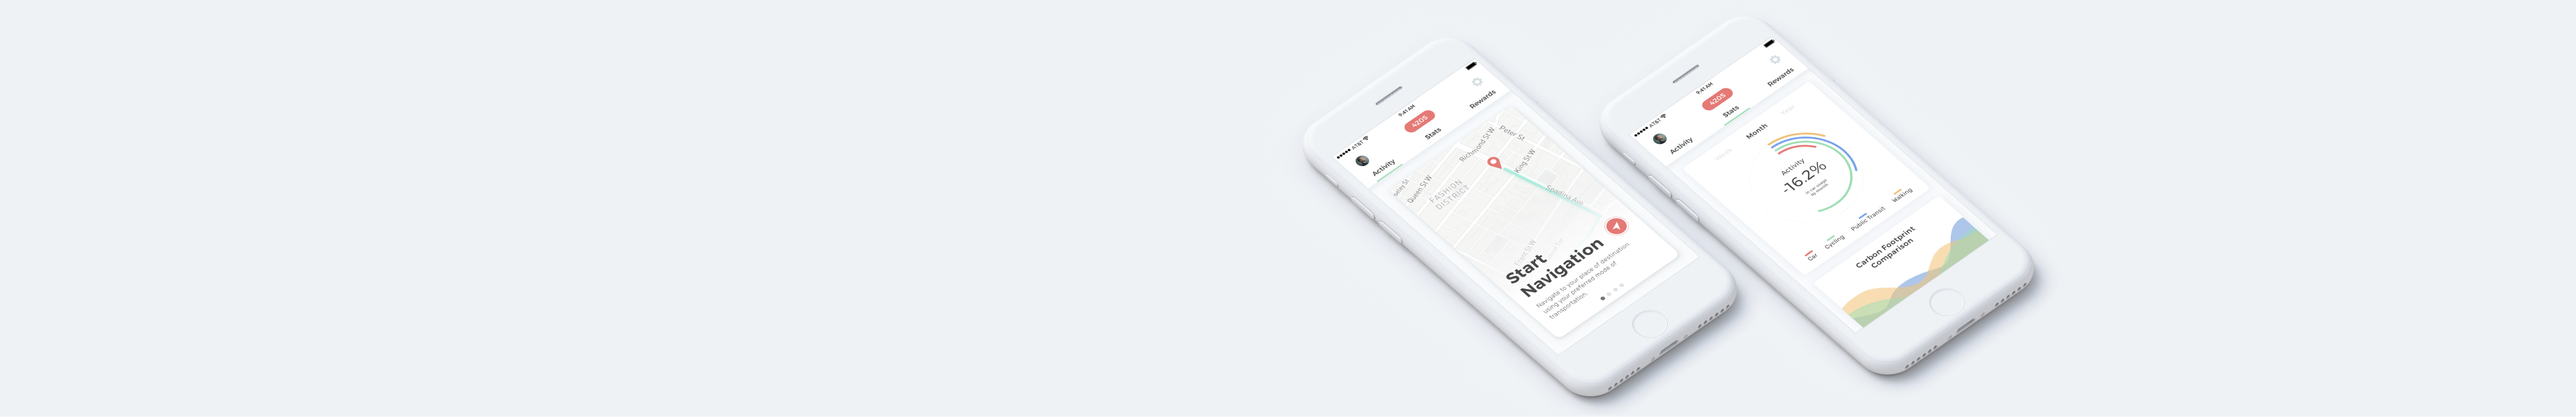
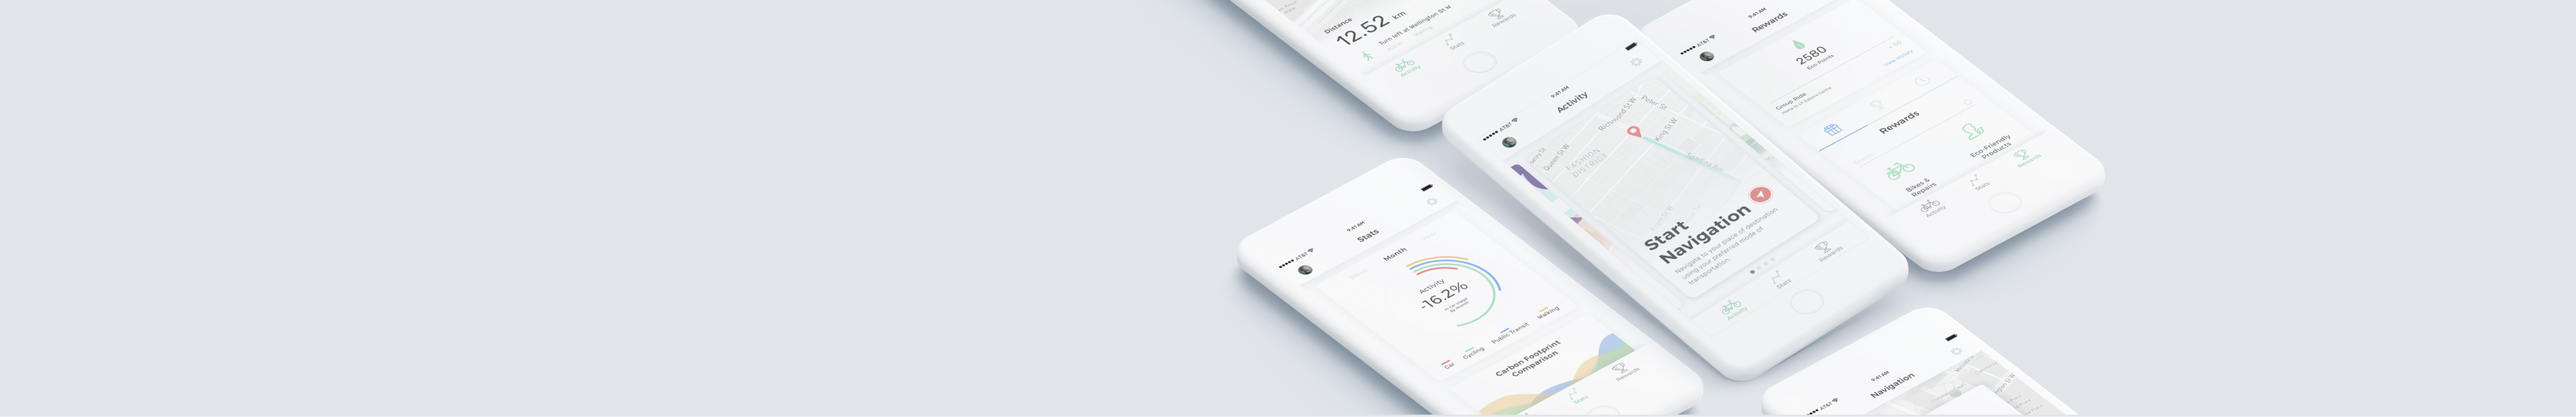
env app updates

diff --git a/design/envapp.html b/design/envapp.html
@@ -30,7 +30,7 @@
 
 		</div>
 
-		<div class="banner" style="background-image: url('../assets/images/design/envapp/envapp-banner.jpg'); background-color: #7fdd99"><body id="top"></div>
+		<div class="banner" style="background-image: url('../assets/images/design/envapp/envapp-banner.jpg'); background-color: #dfe5e9"><body id="top"></div>
 
 		<div class="container">
 			<p class="proj-tags">UI Design</p>
